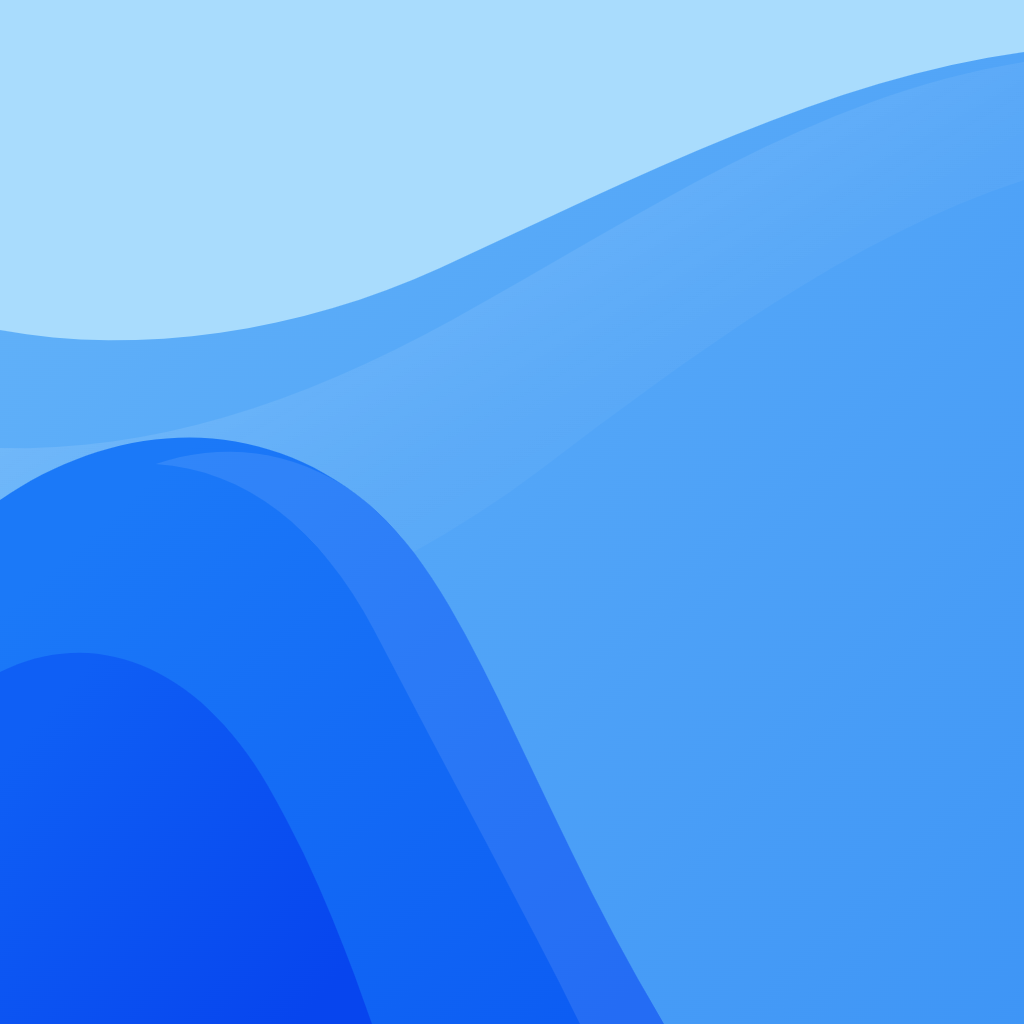
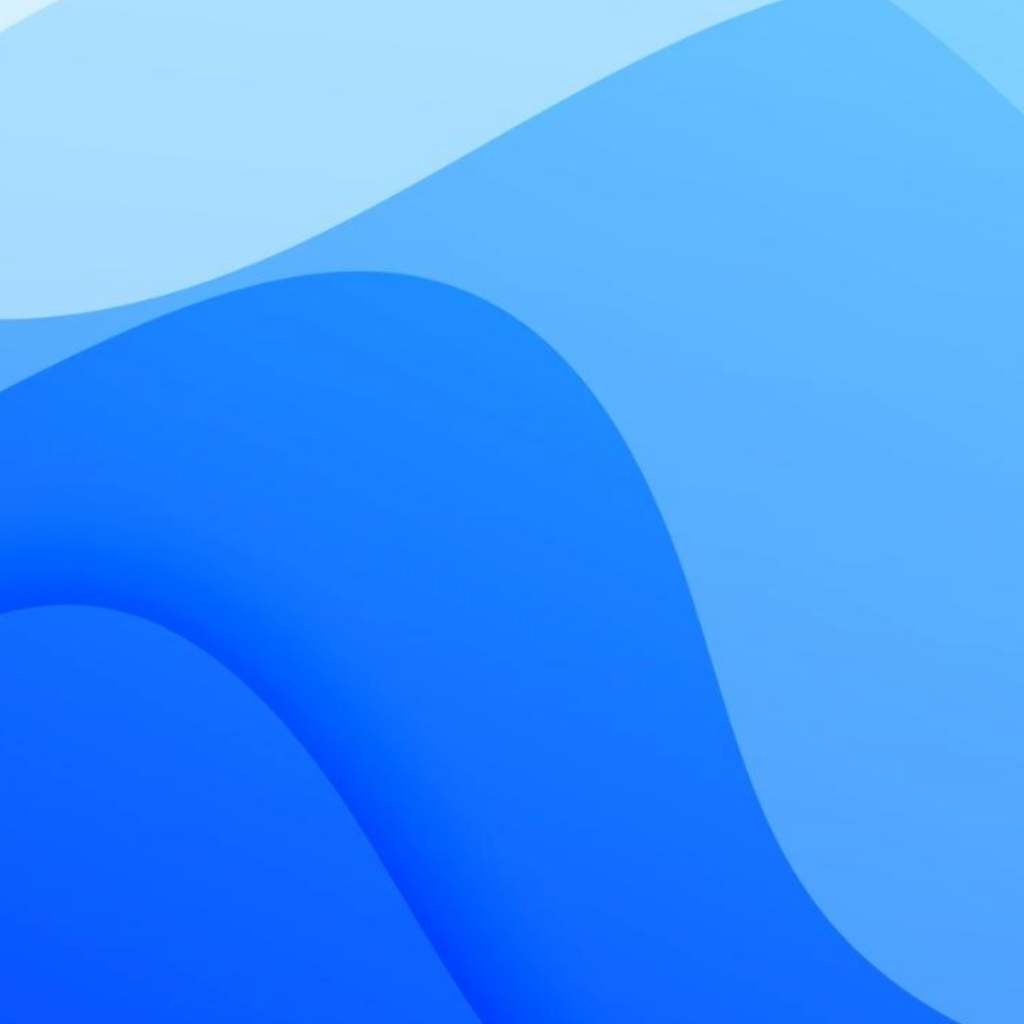
Updates

diff --git a/404.html b/404.html
@@ -62,6 +62,6 @@
     <link rel="stylesheet" crossorigin href="/pulse2_mobile_product_mockup_v2/assets/index-CgQIgf4M.css">
   </head>
   <body>
-    <div id="root"></div>
+    <div id="root"></div>
   </body>
 </html>

diff --git a/index.html b/index.html
@@ -62,6 +62,6 @@
     <link rel="stylesheet" crossorigin href="/pulse2_mobile_product_mockup_v2/assets/index-CgQIgf4M.css">
   </head>
   <body>
-    <div id="root"></div>
+    <div id="root"></div>
   </body>
 </html>

diff --git a/app-icon/README.md b/app-icon/README.md
@@ -1,12 +1,27 @@
 # Pulse 2 app icon
 
-Vector rebuild of the Pulse 2 mark (the supplied PNG was only 138px, too small to ship).
+Source: Figma *Pulse 2.0 Shadcn*, node `199761:86507` ("Frame 2138883529", 69x69).
+Regenerated 2026-10-29, replacing the September vector rebuild.
+
+The artwork is an **image fill**, not vector: a #ddf1ff frame with a 1596x1030
+raster multiplied over it. The SVGs therefore embed a composited raster (256px,
+smooth-scaled) rather than paths. There is no wordmark in this mark.
 
 - `pulse2-app-icon.svg` — master, square full-bleed. Use this for everything.
-- `pulse2-app-icon-1024-square.png` — 1024x1024, no rounding, no alpha needed. **iOS App Store / AppIcon source.**
-- `pulse2-app-icon-rounded.svg` / `pulse2-app-icon-1024.png` — pre-rounded (r = 232/1024 = 22.7%) for web, docs, marketing only.
+- `pulse2-app-icon-1024-square.png` — 1024x1024, no rounding, opaque. **iOS App Store / AppIcon source.**
+- `pulse2-app-icon-rounded.svg` / `pulse2-app-icon-1024.png` — pre-rounded (r = 18/69 = 26.1%) for web, docs, marketing only.
+- `pulse2-app-icon-512.png`, `pulse2-app-icon-192.png` — square, opaque; wired in `public/manifest.json`.
+- `../apple-touch-icon.png` — 180x180, square, opaque; iOS "Add to Home Screen".
+- `../favicon.svg` — byte-copy of `pulse2-app-icon-rounded.svg`; referenced by `index.html` and the manifest.
 
 Notes for the developer
 - iOS: supply the SQUARE asset; the system applies the mask. Do not ship a pre-rounded icon.
-- Android adaptive: use the square art as the background layer (108dp), art is full-bleed and safe under the 66dp mask.
-- Colors: base #66B5F9 -> #3E95F6, mid wave #1B79F8 -> #0C5CF3, deep wave #0F5FF5 -> #0745EE, highlight #A9DCFD.
+- Android adaptive / maskable: `-1024-square` is declared `any maskable`. The art is
+  abstract and full-bleed with no text, so it survives the 80% safe-zone circle crop
+  with no padding added — checked by rendering the circle crop at 192.
+- Rounding changed from r = 232/1024 (22.7%, the old rebuild) to the Figma radius
+  18/69 = 26.1%.
+- To regenerate: frame background #ddf1ff; place the source raster at x=-57, y=-21,
+  183x118 within the 69x69 frame, `object-fit: cover`, `mix-blend-mode: multiply`,
+  `isolation: isolate`; scale linearly to the target size.
+- Rendered corner colors: TL #D7F1FF, TR #81D1FD, BL #0752FE, BR #4EA1FF.
